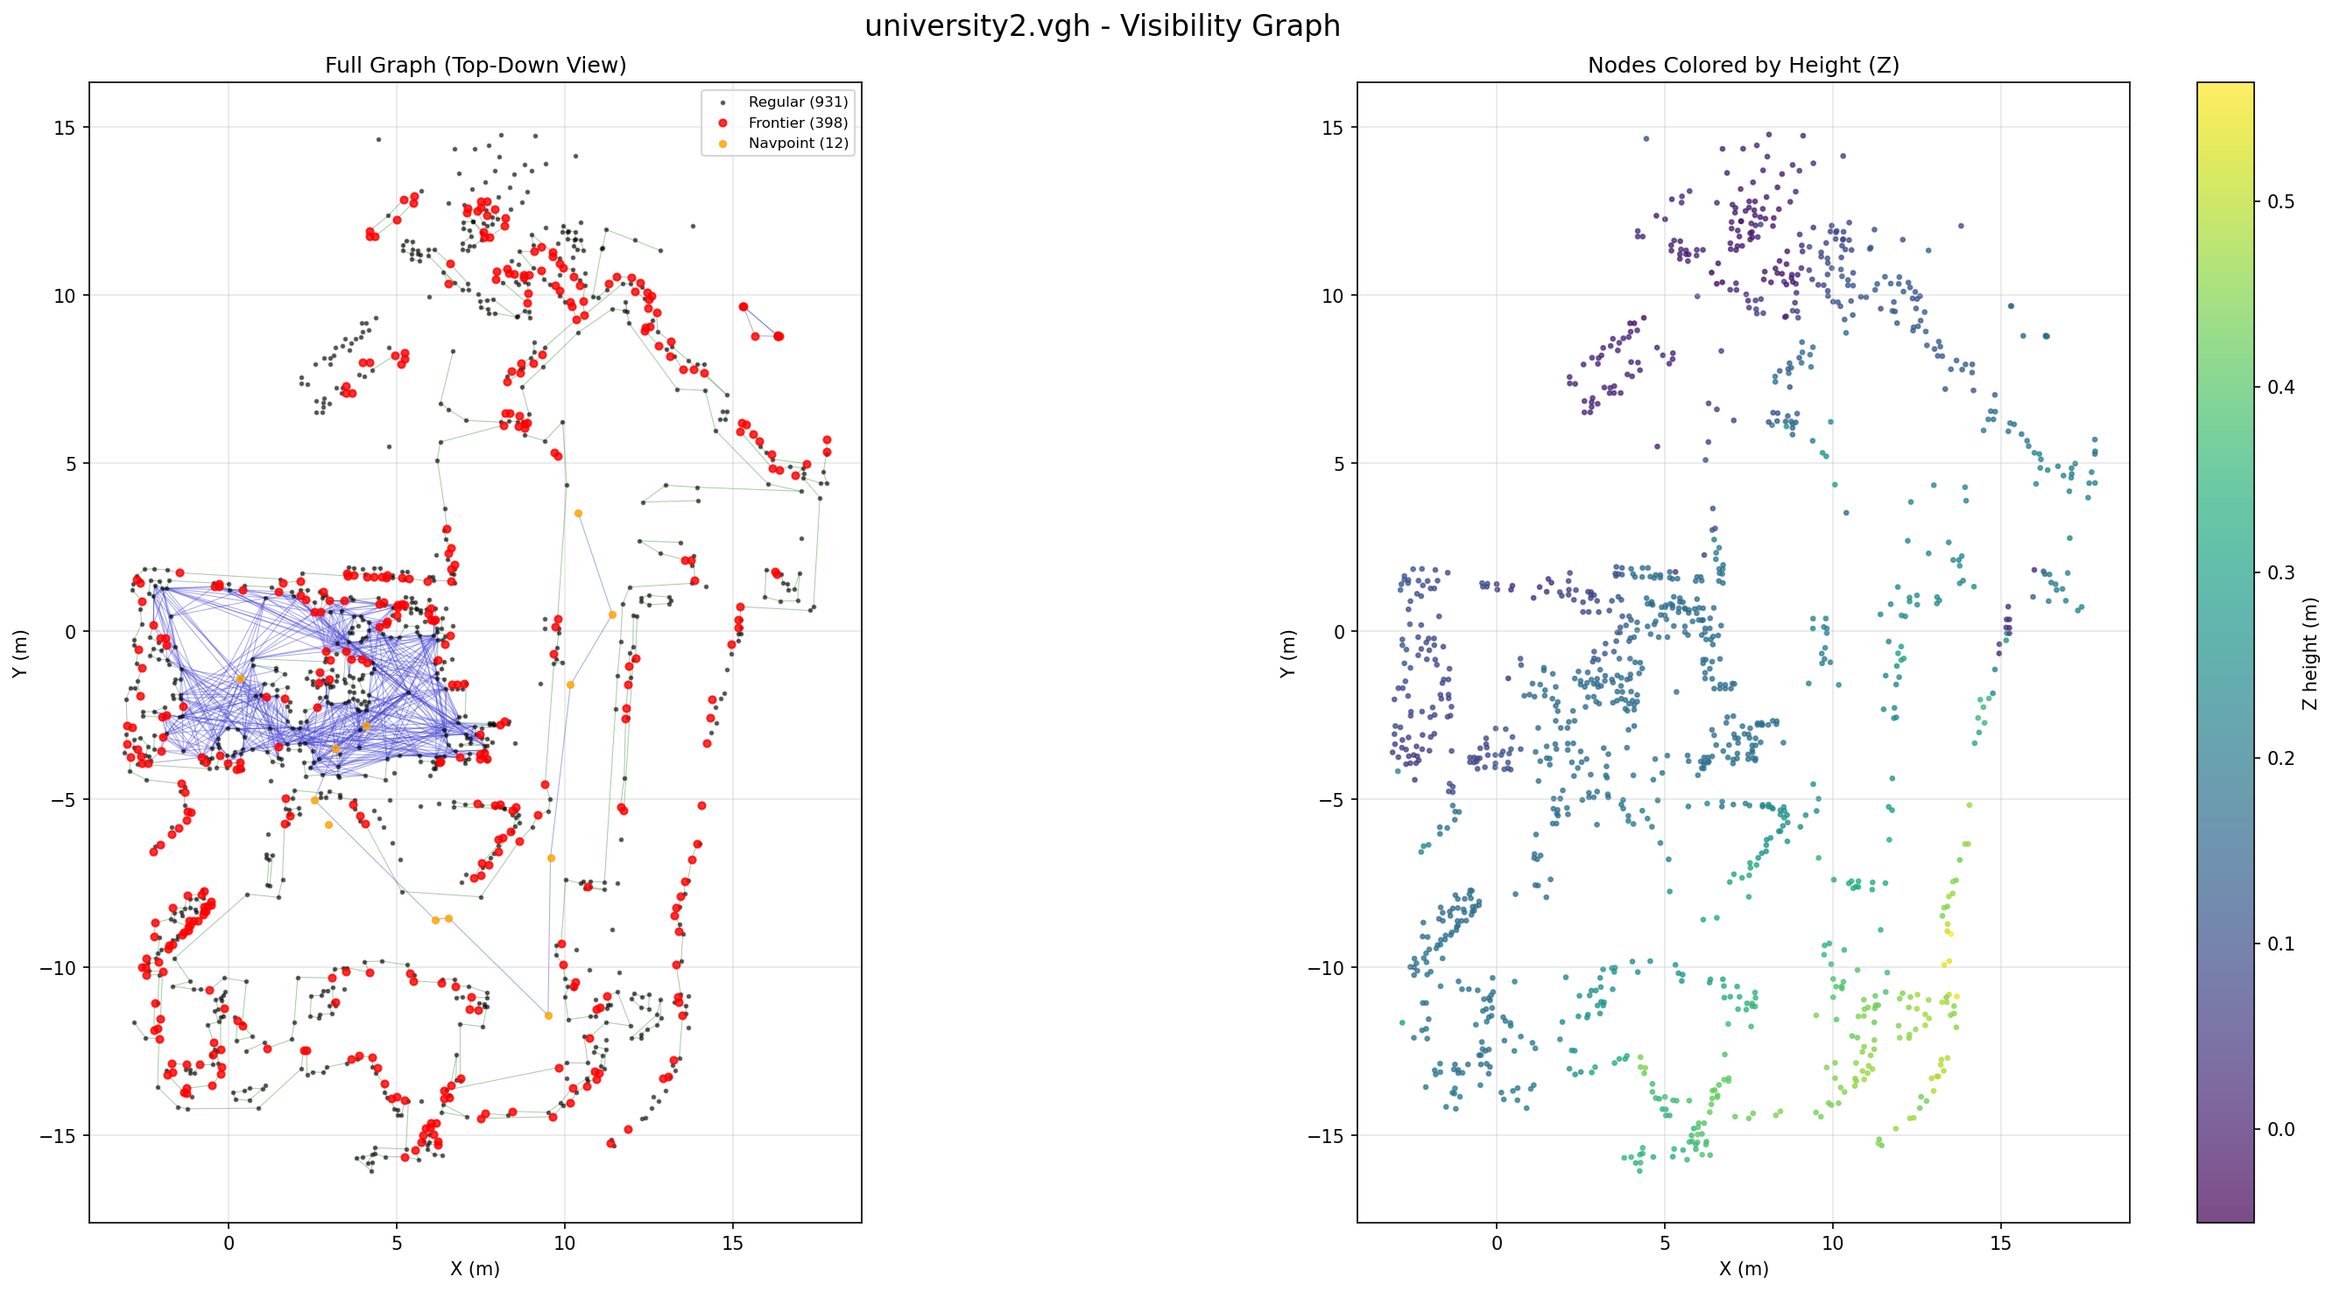
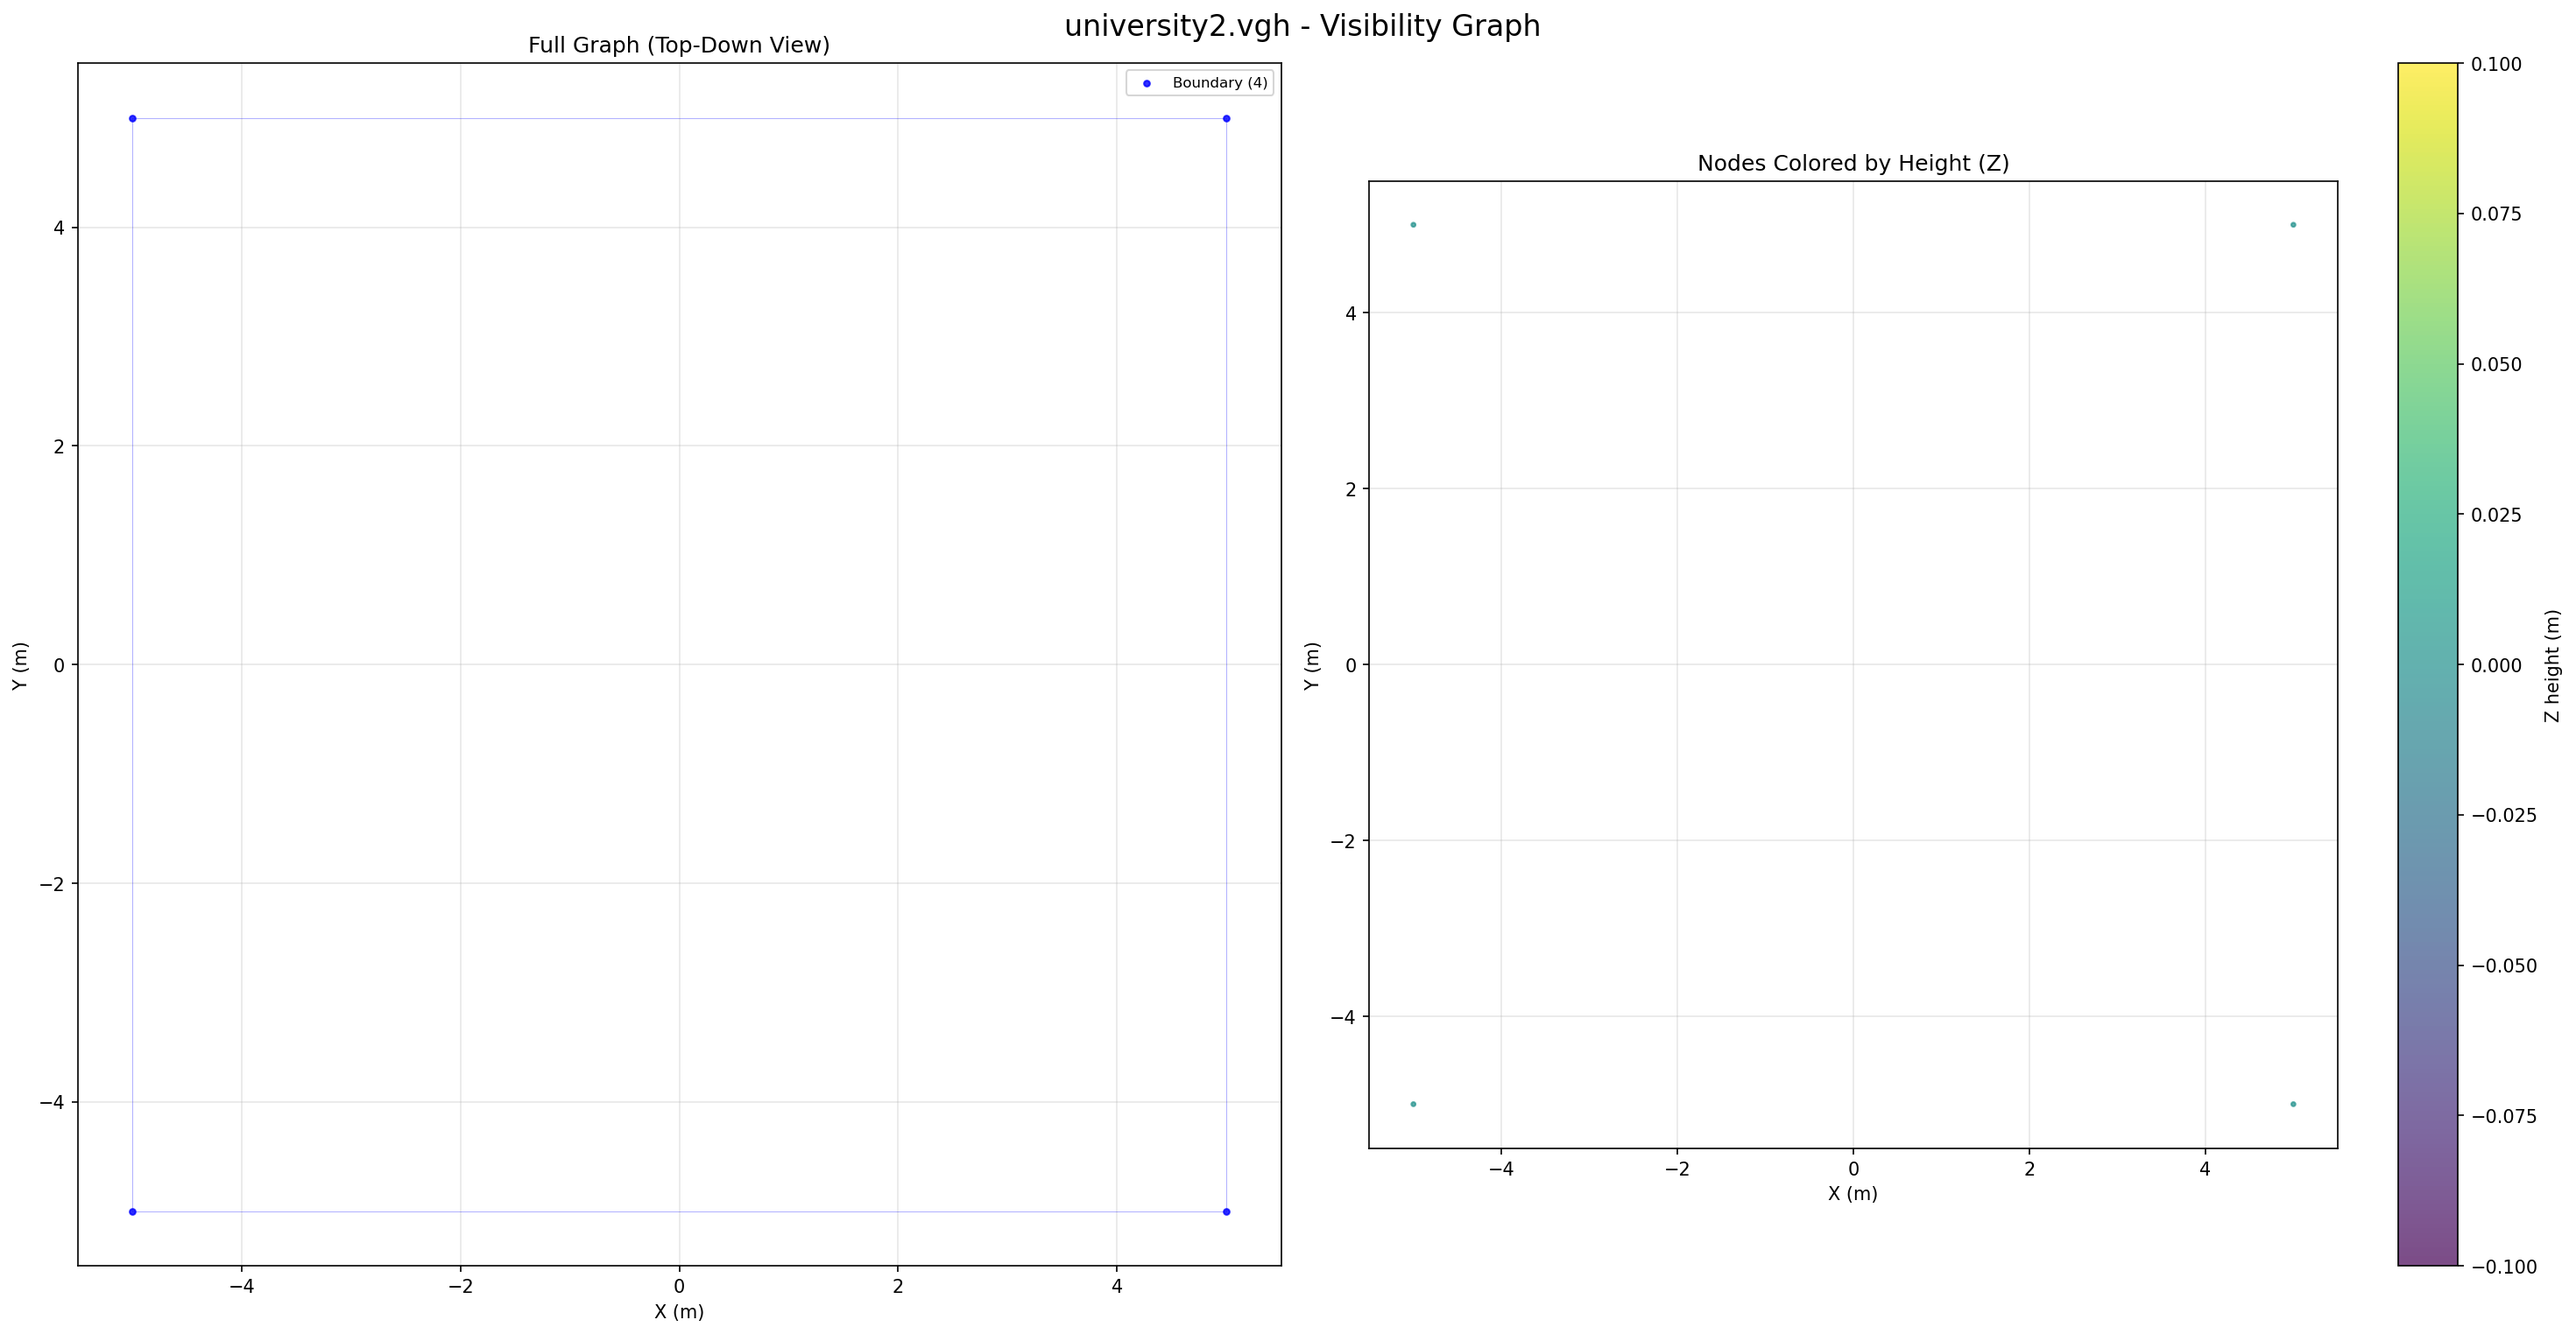
Add FAR planner ROS services and vgraph artifacts

diff --git a/workspaces/far_planner/src/far_planner/src/far_planner.cpp b/workspaces/far_planner/src/far_planner/src/far_planner.cpp
@@ -108,6 +108,34 @@ void FARMaster::Init() {
         RCLCPP_WARN(nh_->get_logger(), "FARMaster: Resume visibility graph update (service call). Rebuilding...");
       });
 
+  clear_vgraph_srv_ = nh_->create_service<std_srvs::srv::Trigger>(
+      "/clear_visibility_graph",
+      [this](const std::shared_ptr<std_srvs::srv::Trigger::Request> /*request*/,
+             std::shared_ptr<std_srvs::srv::Trigger::Response> response) {
+  // Clear the current (possibly loaded) graph and associated state.
+  // Do it immediately so RViz/CLI users see it right away, even if the main loop
+  // is currently blocked by missing preconditions (odom/scan/terrain).
+  //
+  // Also clear any remembered load path so we don't accidentally re-load the same
+  // VGH on the next tick.
+
+  // Freeze updates by default after a clear.
+  is_stop_update_ = true;
+
+  // Clear any pending/implicit load state.
+  is_pending_graph_load_ = false;
+  pending_graph_load_path_.clear();
+  (void)nh_->set_parameter(rclcpp::Parameter("vgraph_file_path", std::string("")));
+
+  // Immediately reset graph+env state.
+  this->ResetEnvironmentAndGraph();
+  is_reset_env_ = false;
+
+  response->success = true;
+  response->message = "Visibility graph cleared (graph+env reset executed immediately; updates frozen; vgraph_file_path cleared).";
+  RCLCPP_WARN(nh_->get_logger(), "FARMaster: Clear visibility graph requested (service call). Reset done immediately.");
+      });
+
   load_vgraph_srv_ = nh_->create_service<std_srvs::srv::Trigger>(
       "/load_visibility_graph",
       [this](const std::shared_ptr<std_srvs::srv::Trigger::Request> /*request*/,
@@ -258,6 +286,9 @@ void FARMaster::Init() {
   if (is_pending_graph_load_ && !pending_graph_load_path_.empty()) {
     RCLCPP_WARN(nh_->get_logger(), "=== VGRAPH: Loading graph immediately from: %s ===", pending_graph_load_path_.c_str());
     this->LoadVisibilityGraph(pending_graph_load_path_);
+  // Clear parameter to avoid accidental re-triggering via /load_visibility_graph
+  // (e.g., from RViz panel or launch-time calls). Autoload already consumed it.
+  (void)nh_->set_parameter(rclcpp::Parameter("vgraph_file_path", std::string("")));
     is_pending_graph_load_ = false;
     pending_graph_load_path_ = "";
   }

diff --git a/workspaces/far_planner/src/far_planner/include/far_planner/far_planner.h b/workspaces/far_planner/src/far_planner/include/far_planner/far_planner.h
@@ -51,6 +51,7 @@ private:
     rclcpp::Service<std_srvs::srv::Trigger>::SharedPtr stop_far_planner_srv_;
     rclcpp::Service<std_srvs::srv::Trigger>::SharedPtr stop_vgraph_update_srv_;
     rclcpp::Service<std_srvs::srv::Trigger>::SharedPtr resume_vgraph_update_srv_;
+    rclcpp::Service<std_srvs::srv::Trigger>::SharedPtr clear_vgraph_srv_;
     rclcpp::Service<std_srvs::srv::Trigger>::SharedPtr load_vgraph_srv_;
     rclcpp::Service<std_srvs::srv::Trigger>::SharedPtr save_vgraph_srv_;
 
